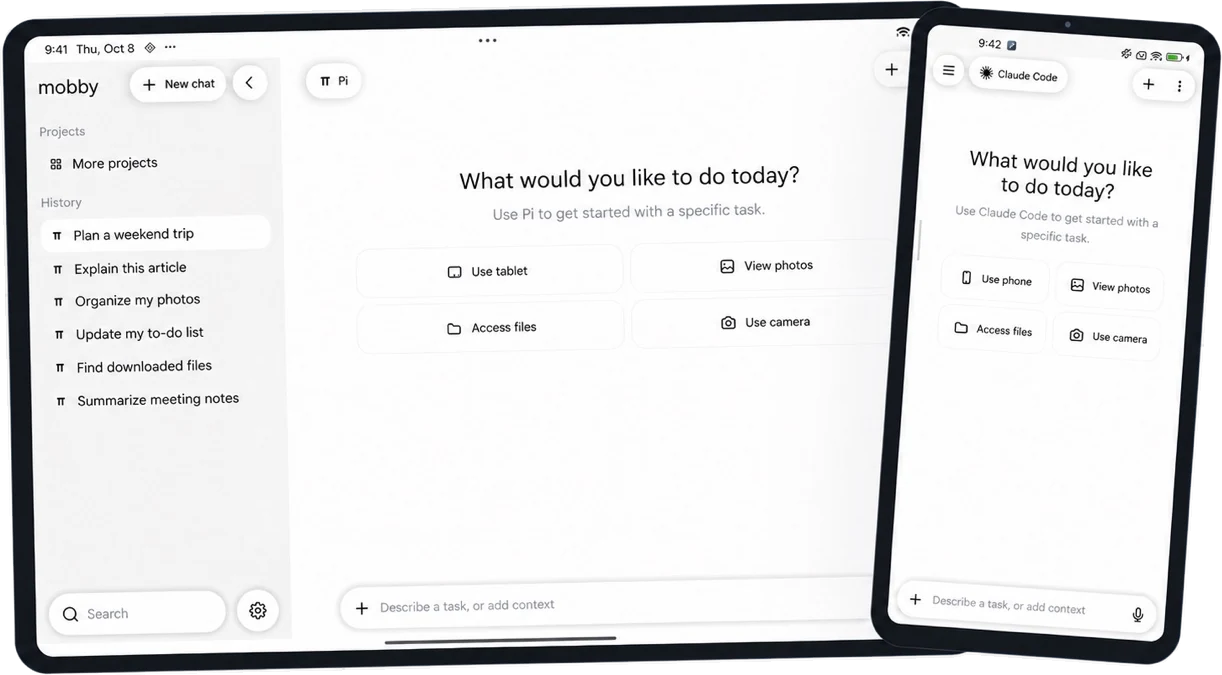
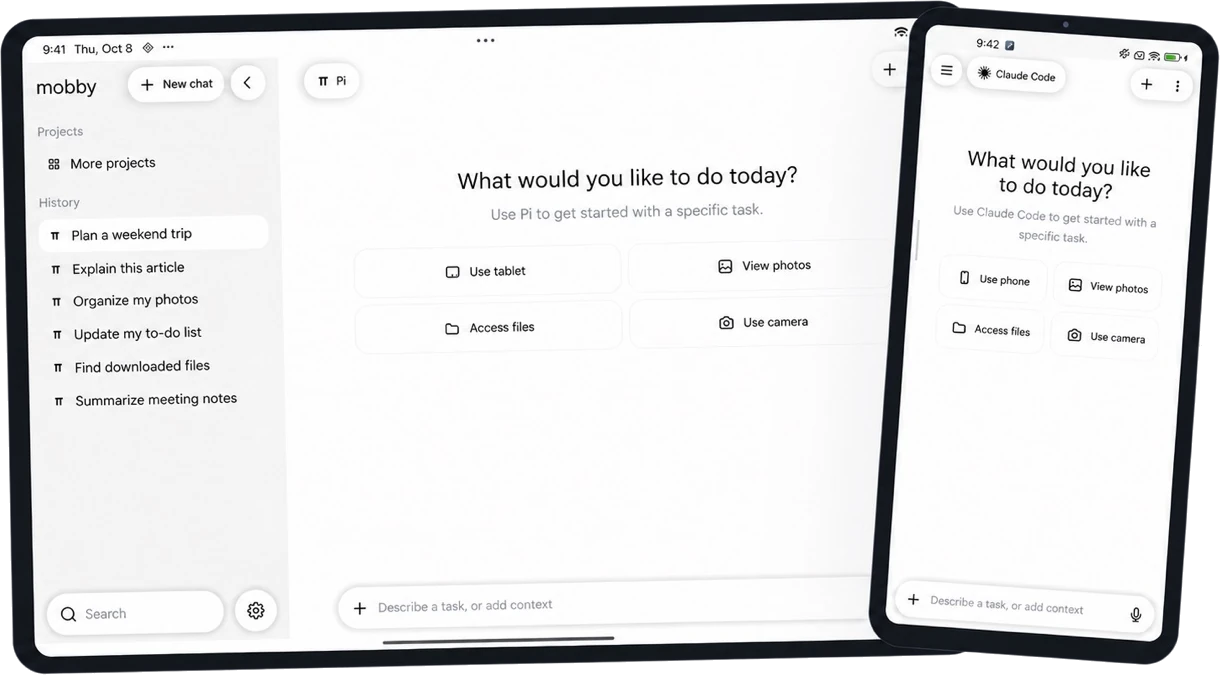
Remove the light rim around the mobby device cutout
Transparent pixels kept the poster's light background colour, which
lossy WebP bled into the edge, and the outermost bezel pixels were
already part background. Edge alpha is now measured against the local
background on both sides of the boundary, every transparent or edge
pixel takes the bezel colour, and the image URLs are versioned.

diff --git a/showcase.html b/showcase.html
@@ -134,7 +134,7 @@
     </section>
     <section class="sheet" data-scene="2">
       <figure class="poster devices reveal">
-        <img src="assets/mobby-devices-zh.webp" data-src-zh="assets/mobby-devices-zh.webp" data-src-en="assets/mobby-devices-en.webp" alt="mobby 在 Android 平板与手机上" data-i18n-alt="mobby.alt" width="1222" height="676" loading="lazy">
+        <img src="assets/mobby-devices-zh.webp?v=2" data-src-zh="assets/mobby-devices-zh.webp?v=2" data-src-en="assets/mobby-devices-en.webp?v=2" alt="mobby 在 Android 平板与手机上" data-i18n-alt="mobby.alt" width="1220" height="674" loading="lazy">
       </figure>
       <div class="sheet-grid">
         <div class="sheet-col reveal">
